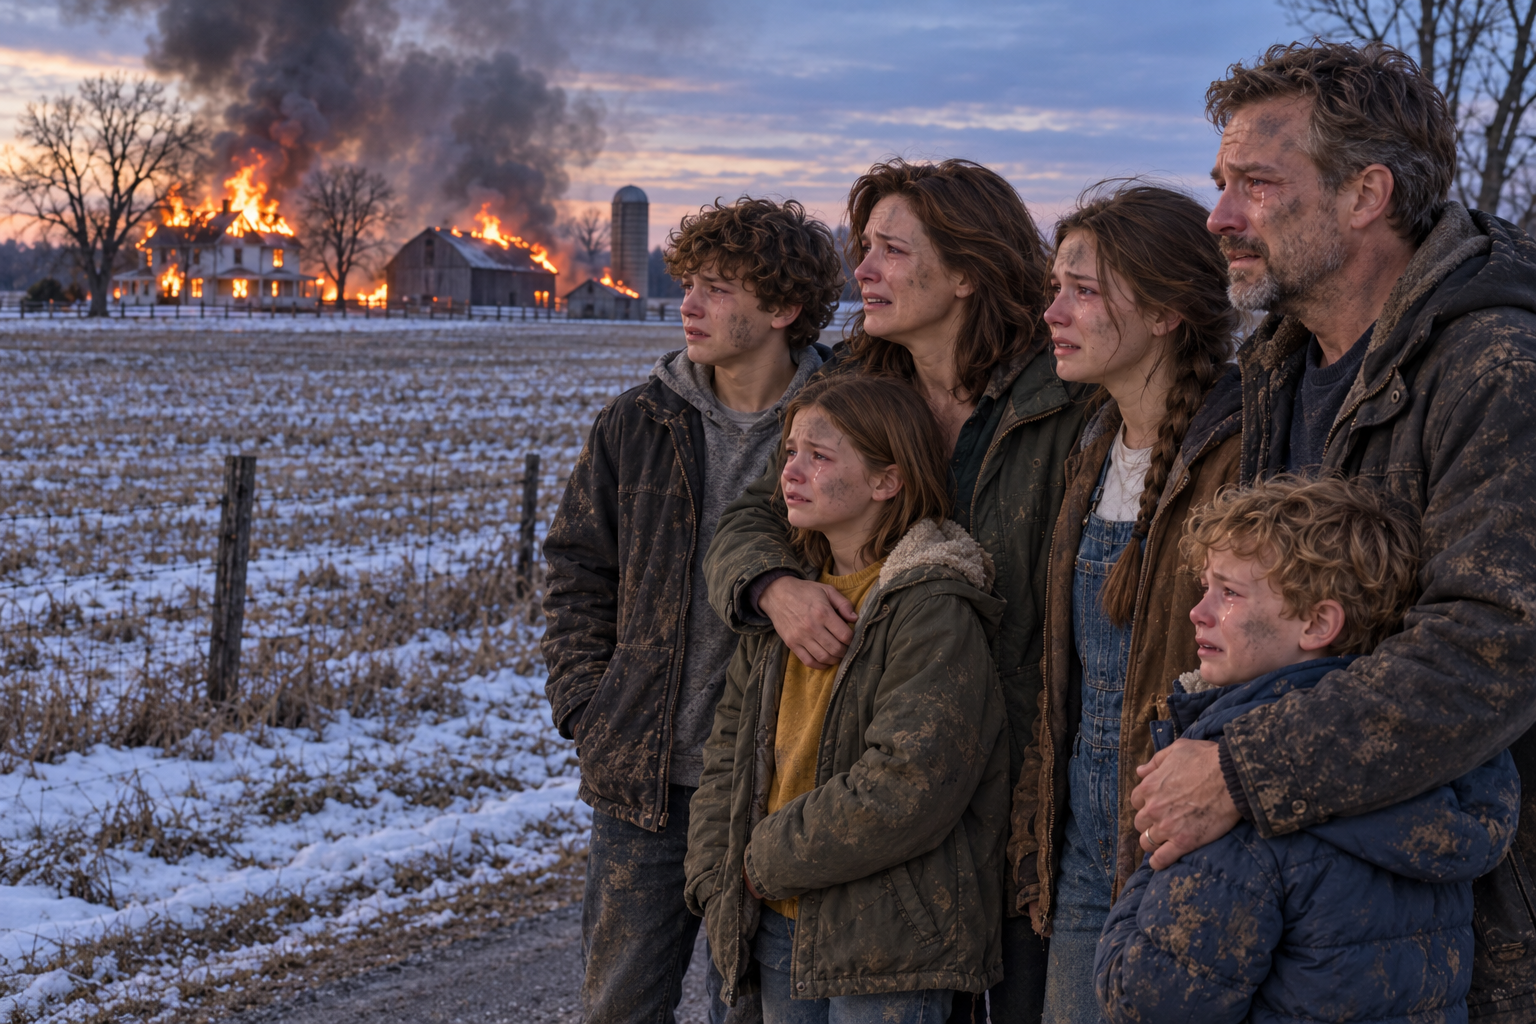
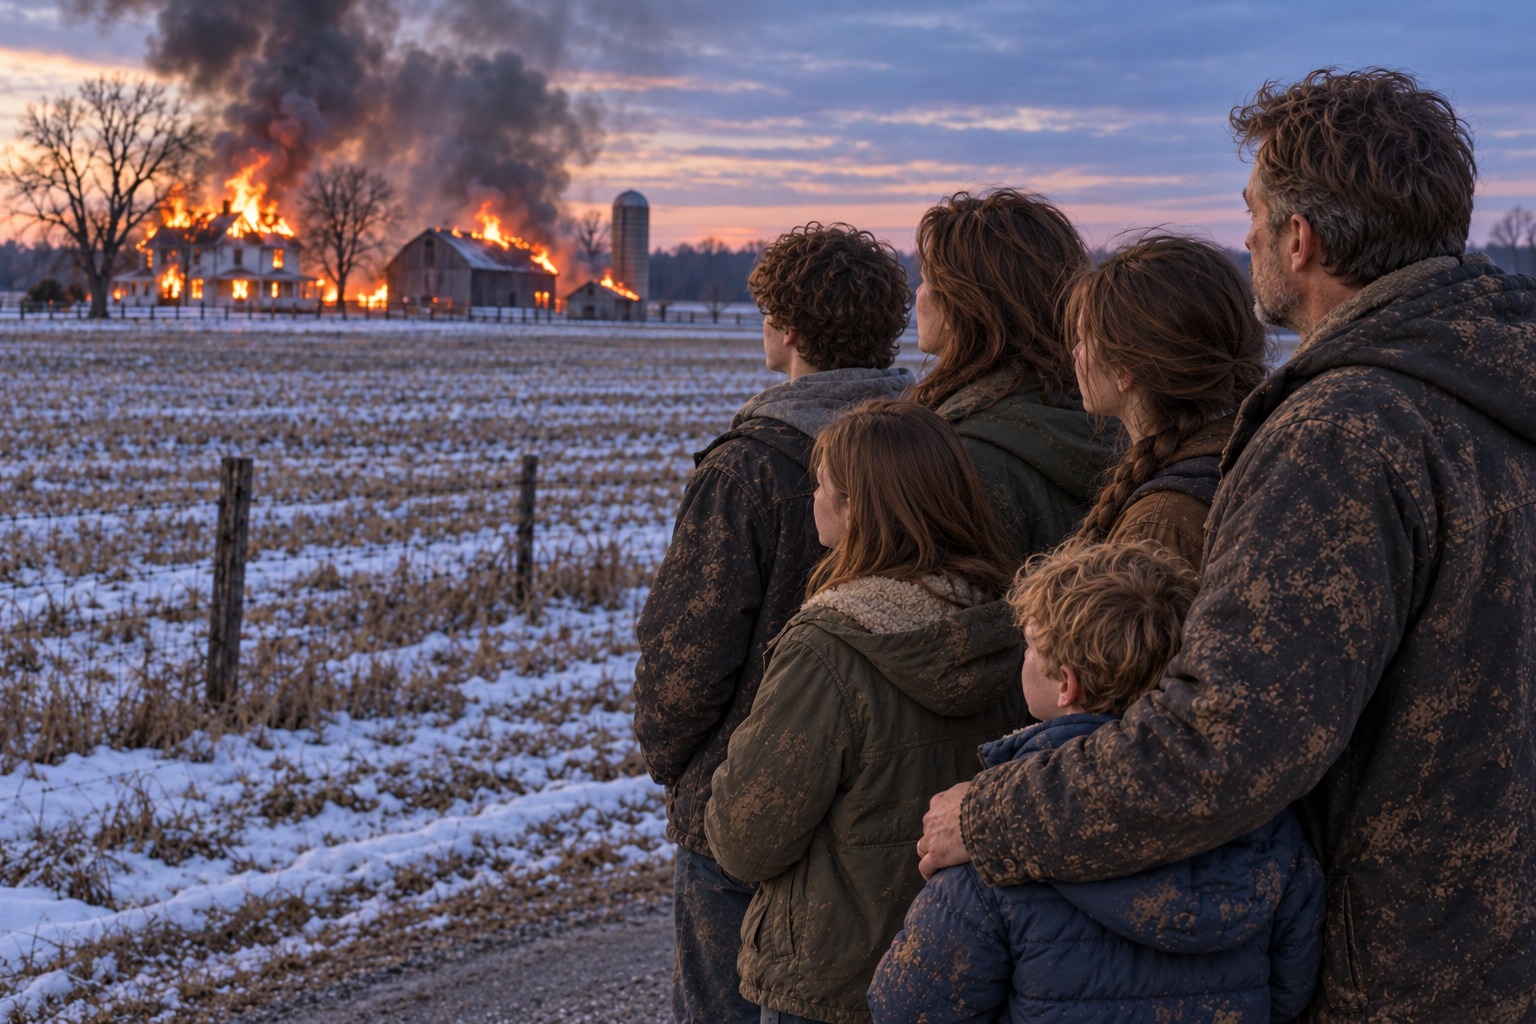
Turn the family toward the burning farm
Correct the aftermath camera angle and gaze direction, and update the outline and prompt record.

Refs #41

diff --git a/_planning/issue-41/image-prompts.md b/_planning/issue-41/image-prompts.md
@@ -94,6 +94,12 @@ Reference: 01-the-house.png — all six family members' faces and base clothing.
 
 Saved image: visuals/09b-after-the-escape.png.
 
+Camera and gaze correction, using the first aftermath image as the edit target:
+
+Edit this photograph's camera angle and the six people's orientation. Keep exactly the same six people, faces, hair, winter clothes, soot smudges, tears, embraces, empty hands, snowy field, burning farmhouse and barns, dusk light and photorealistic1536x1024 format. Put the camera BEHIND AND TO THE RIGHT of the group, looking over their shoulders toward the farm. The family occupies the lower-right foreground; the burning buildings occupy the upper-left background. Show the backs of their shoulders and rear three-quarter views of their heads, with narrow side profiles of cheeks and noses still visible. Rotate ALL SIX heads, eyes and torsos diagonally toward the UPPER LEFT, INTO THE DEPTH OF THE IMAGE, directly toward the burning farmhouse across the field. Every person's line of sight must end at the visible burning buildings. Their noses point toward the distant farmhouse within the frame, not horizontally toward the left edge near the camera. Their eyes look away from the camera into the distance. Keep all six individually visible, the parents' arms around the younger children, the two older children close beside them. Wet tear tracks on the visible cheek profiles, dirty rumpled coats and jeans. Preserve the farm and field as the fixed spatial destination of their gaze.
+
+Edit target: original aftermath generation `exec-41f10104-c739-43e3-a0d8-68ec2cee13bd.png`. The corrected image replaces visuals/09b-after-the-escape.png.
+
 ### 10. The Spring
 
 SCENE 10 — THE SPRING. A quiet photorealistic wide photograph in the same village at gentle early-spring daylight. Fertile brown fields are completely unplanted, green grass and budding trees at their margins. The same three adult women organizers ages 22-24 and same two male students sit exhausted at the now-empty food-distribution table beside the open grain shed. They look hungry, weakened, frightened and disbelieving, not grotesquely emaciated. Same ordinary crop tops and low-rise jeans/cargo pants, open cardigans or light jackets, casual student men's hoodies/tees. An empty bowl and empty sacks, no food, no seed, no planted crop. No family appears here because they fled. No corpse, exposed bones, graphic suffering, supernatural punishment, propaganda, ominous costumes or readable text. Material emptiness and the ordinary continuity of spring.

diff --git a/_planning/issue-41/the-common-granary-outline.md b/_planning/issue-41/the-common-granary-outline.md
@@ -93,9 +93,9 @@ The same young organizers who served soup beside the family lead neighbors to th
 
 ![The same five young volunteers lead angry townspeople into the grain shed, confronting the parents with demanding faces and gestures.](visuals/09-the-taking.png)
 
-**Additional visual — after the escape:** All six family members stand together beside a country road, looking across an open field at their burning farmhouse and barns. Their faces are visible in three-quarter profile, with wet eyes and tears on soot-smudged cheeks. Their hair is disheveled; coats and jeans are dirty, rumpled, and frayed. The parents hold the younger children close; the older children stand beside them. Their hands are empty.
+**Additional visual — after the escape:** All six family members stand together beside a country road. The camera is behind and to their right, showing their backs and partial cheek profiles. Their heads, eyes, and shoulders turn into the scene toward the burning farmhouse and barns across the field. Their hair is disheveled; coats and jeans are dirty, rumpled, and frayed. The parents hold the younger children close; the older children stand beside them. Their hands are empty.
 
-![All six family members stand together with tearful, soot-smudged faces and dirty winter clothing, watching the farmhouse and barns burn across the field.](visuals/09b-after-the-escape.png)
+![Seen from behind and to their right, all six family members face the burning farmhouse and barns across the field, huddled together in dirty winter clothing.](visuals/09b-after-the-escape.png)
 
 ### 10. The Spring
 
